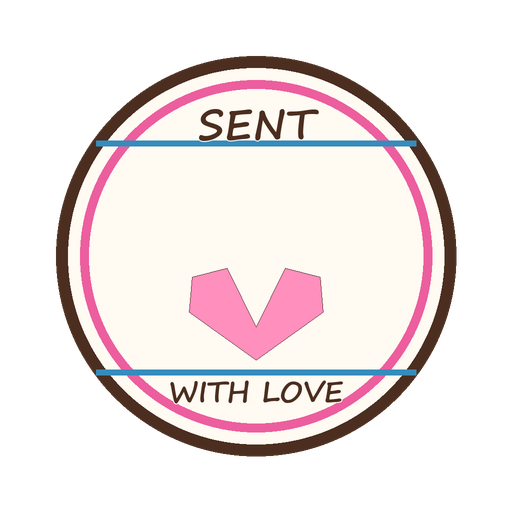
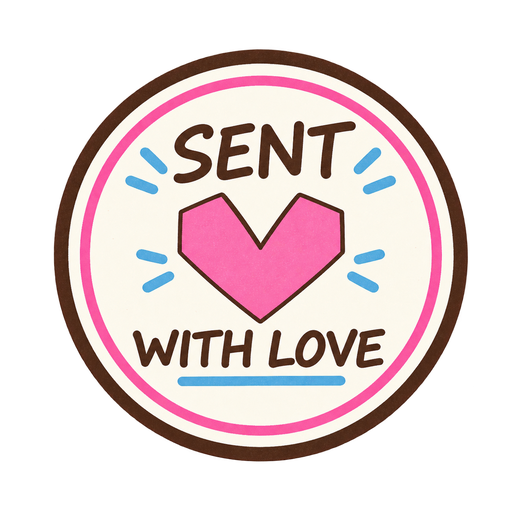
feat(stickers): Polara v0.45.0 - expand premium decoration rail

Changed region(s): [[0.0938, 0.0938, 0.9375, 0.9062]]

diff --git a/src/app.js b/src/app.js
@@ -16,7 +16,7 @@ import {
   isRequestedFrameStillSelected,
   templateSupportsDynamicText,
 } from './modules/templates/template-ui.js?v=13';
-import { getStickerPack, createStickerInstance, preloadMascots } from './modules/stickers/index.js?v=3';
+import { getStickerPack, createStickerInstance, preloadMascots } from './modules/stickers/index.js?v=4';
 import {
   DEFAULT_GUEST_ID, POSE_MATE_EXPERIENCE, createGuestComposition, createLatestSelectionGate,
   getGuest, getGuestOptions, getGuestRuntimeAssets, poseGuideForSlot,
@@ -1474,9 +1474,10 @@ function renderStickerTray() {
   const template = getTemplate(state.frameId);
   const stickerPack = getStickerPack(template?.familyId);
   const exclusive = stickerPack.find((asset) => asset.exclusiveFamilyId === template?.familyId);
+  const universalCount = stickerPack.filter((asset) => !asset.exclusiveFamilyId).length;
   if (refs.stickerRailMeta) refs.stickerRailMeta.textContent = exclusive
-    ? `${exclusive.name} + 23 universal`
-    : '23 universal stickers';
+    ? `${exclusive.name} + ${universalCount} universal`
+    : `${universalCount} universal stickers`;
   refs.stickerTray.setAttribute('aria-label', `Add a sticker for ${template?.name || 'the selected frame'}`);
   stickerPack.forEach((asset, index) => {
     const button = document.createElement('button');

diff --git a/src/modules/stickers/index.js b/src/modules/stickers/index.js
@@ -112,6 +112,18 @@ export const universalStickers = [
     id: 'film-flash', type: 'sticker', category: 'accent', name: 'Film Flash', src: STICKER + 'film-flash.png',
     exportPolicy: 'preview-and-export', defaultTransform: { x: .8, y: .72, scale: .16, rotation: 6 }, minScale: .08, maxScale: .4,
   },
+  {
+    id: 'paper-bow', type: 'sticker', category: 'prop', name: 'Paper Bow', src: STICKER + 'paper-bow.png',
+    exportPolicy: 'preview-and-export', defaultTransform: { x: .18, y: .22, scale: .16, rotation: -8 }, minScale: .08, maxScale: .38,
+  },
+  {
+    id: 'love-envelope', type: 'sticker', category: 'charm', name: 'Love Letter', src: STICKER + 'love-envelope.png',
+    exportPolicy: 'preview-and-export', defaultTransform: { x: .82, y: .5, scale: .18, rotation: 5 }, minScale: .09, maxScale: .4,
+  },
+  {
+    id: 'botanical-sprig', type: 'sticker', category: 'accent', name: 'Botanical Sprig', src: STICKER + 'botanical-sprig.png',
+    exportPolicy: 'preview-and-export', defaultTransform: { x: .18, y: .72, scale: .18, rotation: -10 }, minScale: .09, maxScale: .4,
+  },
 ];
 
 export const exclusiveStickers = [

diff --git a/index.html b/index.html
@@ -711,6 +711,6 @@
       </div>
     </div>
   </footer>
-  <script type="module" src="src/app.js?v=45"></script>
+  <script type="module" src="src/app.js?v=46"></script>
 </body>
 </html>

diff --git a/CHANGELOG.md b/CHANGELOG.md
@@ -5,6 +5,18 @@ Lihat aturan lengkap di `../../KONVENSI-VERSI.md`.
 
 ## [Unreleased]
 
+## [0.45.0] - 2026-09-29
+
+### Added
+- Memperluas Sticker Workshop menjadi 26 premium sticker universal dengan Paper Bow, Love Letter, dan Botanical Sprig yang memakai gaya paper-cut Polara.
+
+### Changed
+- Sent With Love diremaster dari overlay baru yang lebih terbaca pada ukuran picker dan tetap aman saat ditempatkan dekat tepi canvas.
+- Provenance runtime mencatat empat aset hasil imagegen yang sudah melalui alpha cleanup lokal.
+
+### Validation
+- Preview dan export memakai registry sticker yang sama. Exact export tetap Single 1080×1350 dan Strip 720×1800.
+
 ## [0.44.0] - 2026-09-29
 
 ### Fixed
